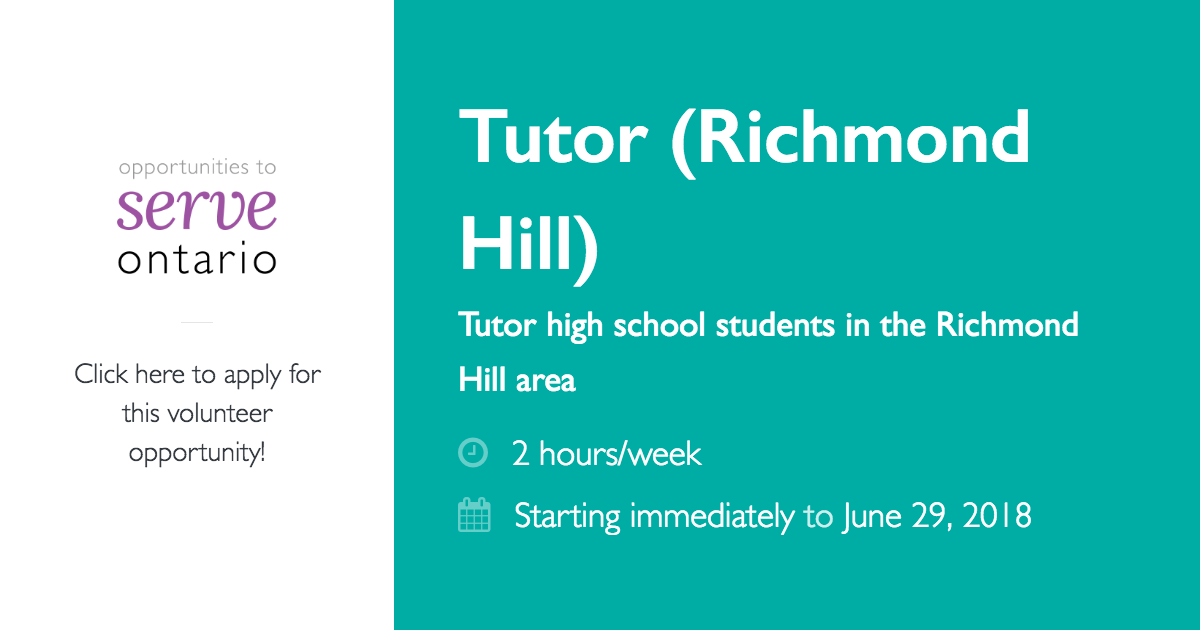
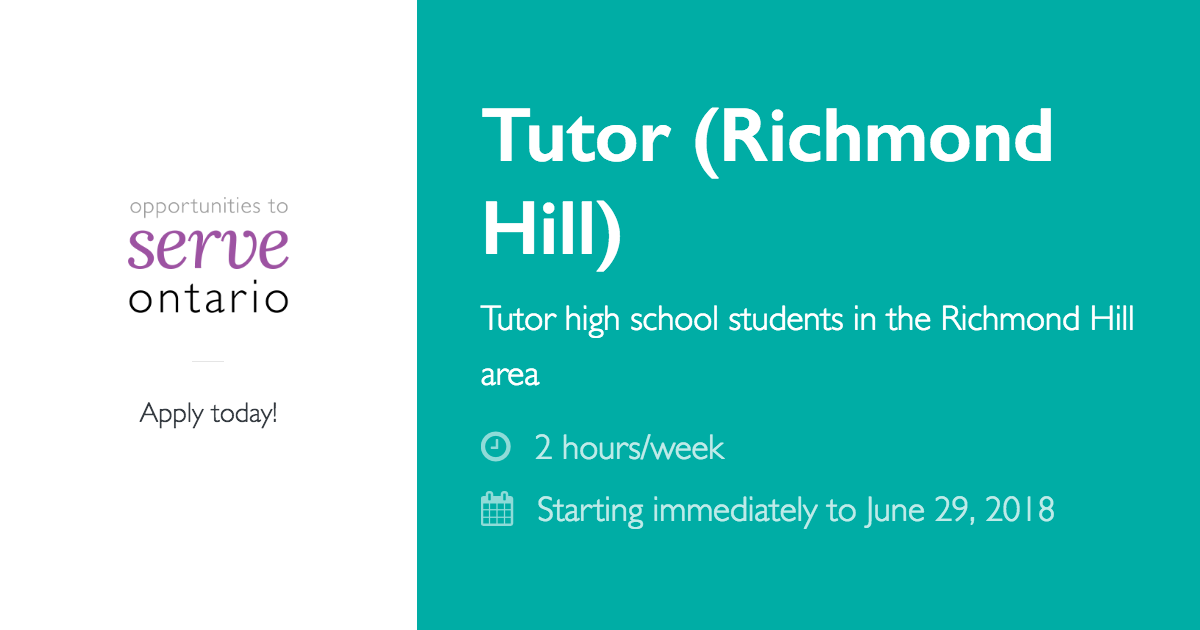
Improve social images

diff --git a/layouts/__social/single.html b/layouts/__social/single.html
@@ -7,14 +7,14 @@
 {{ define "main_wrapper" }}
 	<main class="d-flex flex-row font-family-sans-serif">
 		<div class="bg-white d-flex flex-column align-items-center justify-content-center p-5 text-center">
-			<img class="mb-3" height="116" src="/images/logo.png"/>
+			<img class="mb-3 mx-5" height="116" src="/images/logo.png"/>
 			<!-- <hr class="my-4">
 			<h5 class="mb-0 about">Find volunteer opportunities<br>within Jamati programs</h5> -->
 			<hr class="my-4">
-			<h4 class="mb-0 cta">Click here to apply for<br>this volunteer opportunity!</h4>
+			<h4 class="mb-0 cta">Apply today!</h4>
 		</div>
 		<div style="flex-grow: 1;" class="listing text-white p-5 d-flex flex-column flex-nowrap justify-content-center">
-			<h1 class="mb-0">{{ partial "listings/title_html.html" . }}</h1>
+			<h1 class="mb-3">{{ partial "listings/title_html.html" . }}</h1>
 			<p class="description mb-3">{{ .Description }}</p>
 			{{ partial "listings/meta.html" . }}
 		</div>

diff --git a/styles/social.scss b/styles/social.scss
@@ -27,16 +27,18 @@ hr {
 	h1 {
 		font-size: 4.768rem;
 		font-weight: 300;
+		line-height: 1.2;
 		strong {
 			font-weight: 600;
 		}
 	}
 
 	.item-meta {
-		font-size: $h3-font-size;
-		color: rgba(255, 255, 255, 0.8);
-		font-weight: 100;
+		opacity: 0.75;
 		margin-bottom: 0;
+		font-size: $h3-font-size;
+		font-weight: 100;
+		color: rgba(255, 255, 255, 1.0);
 		li.list-inline-item {
 			display: block;
 			em {
@@ -44,11 +46,10 @@ hr {
 				font-weight: 300;
 			}
 			i {
-				color: rgba(255, 255, 255, 0.40);
+				color: rgba(255, 255, 255, 0.75);
 				margin-right: 1.5rem !important;
 			}
 			&:after {
-				color: rgba(255, 255, 255, 0.10);
 				content: none;
 			}
 		}
@@ -57,6 +58,7 @@ hr {
 	.description {
 		font-size: $h3-font-size;
 		line-height: $line-height-sm;
+		font-weight: 300;
 		color: #FFF;
 	}
 

diff --git a/content/listings/2018-01-30-unionville-tutor.md b/content/listings/2018-01-30-unionville-tutor.md
@@ -3,7 +3,7 @@ date: 2018-01-30
 expirydate: 2018-03-01
 approved: true
 
-position: Tutor (Unionville JK)
+position: Tutor (Unionville)
 program: false
 org: Aga Khan Education Board for Ontario
 description: Tutor students at Unionville JK
